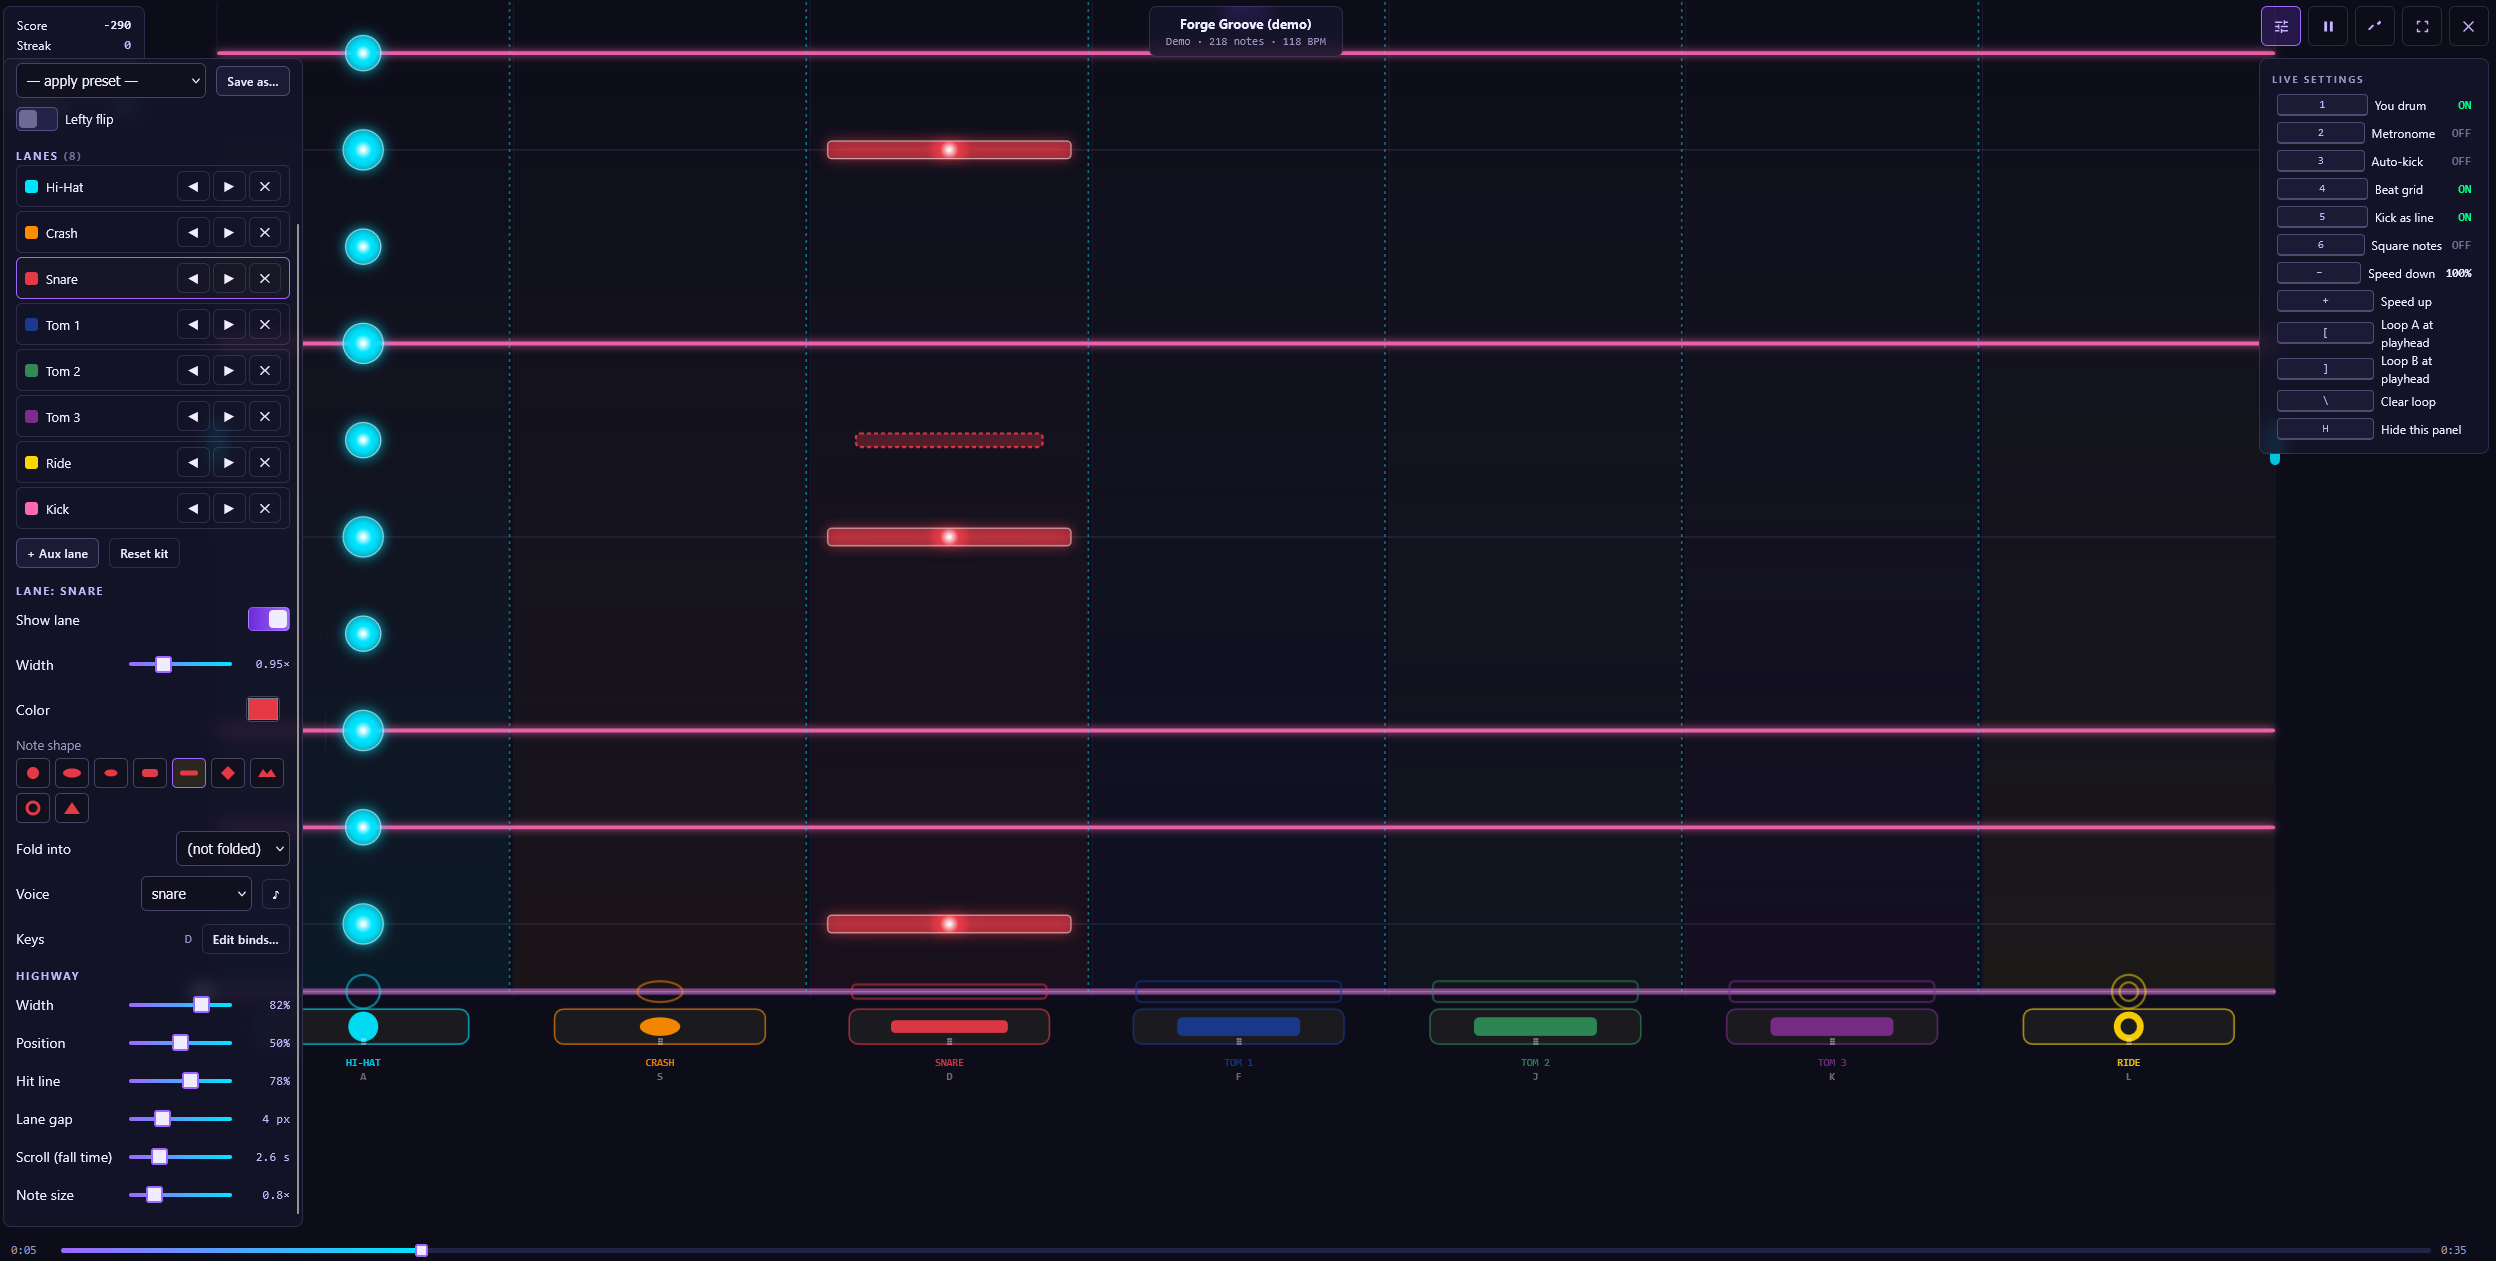
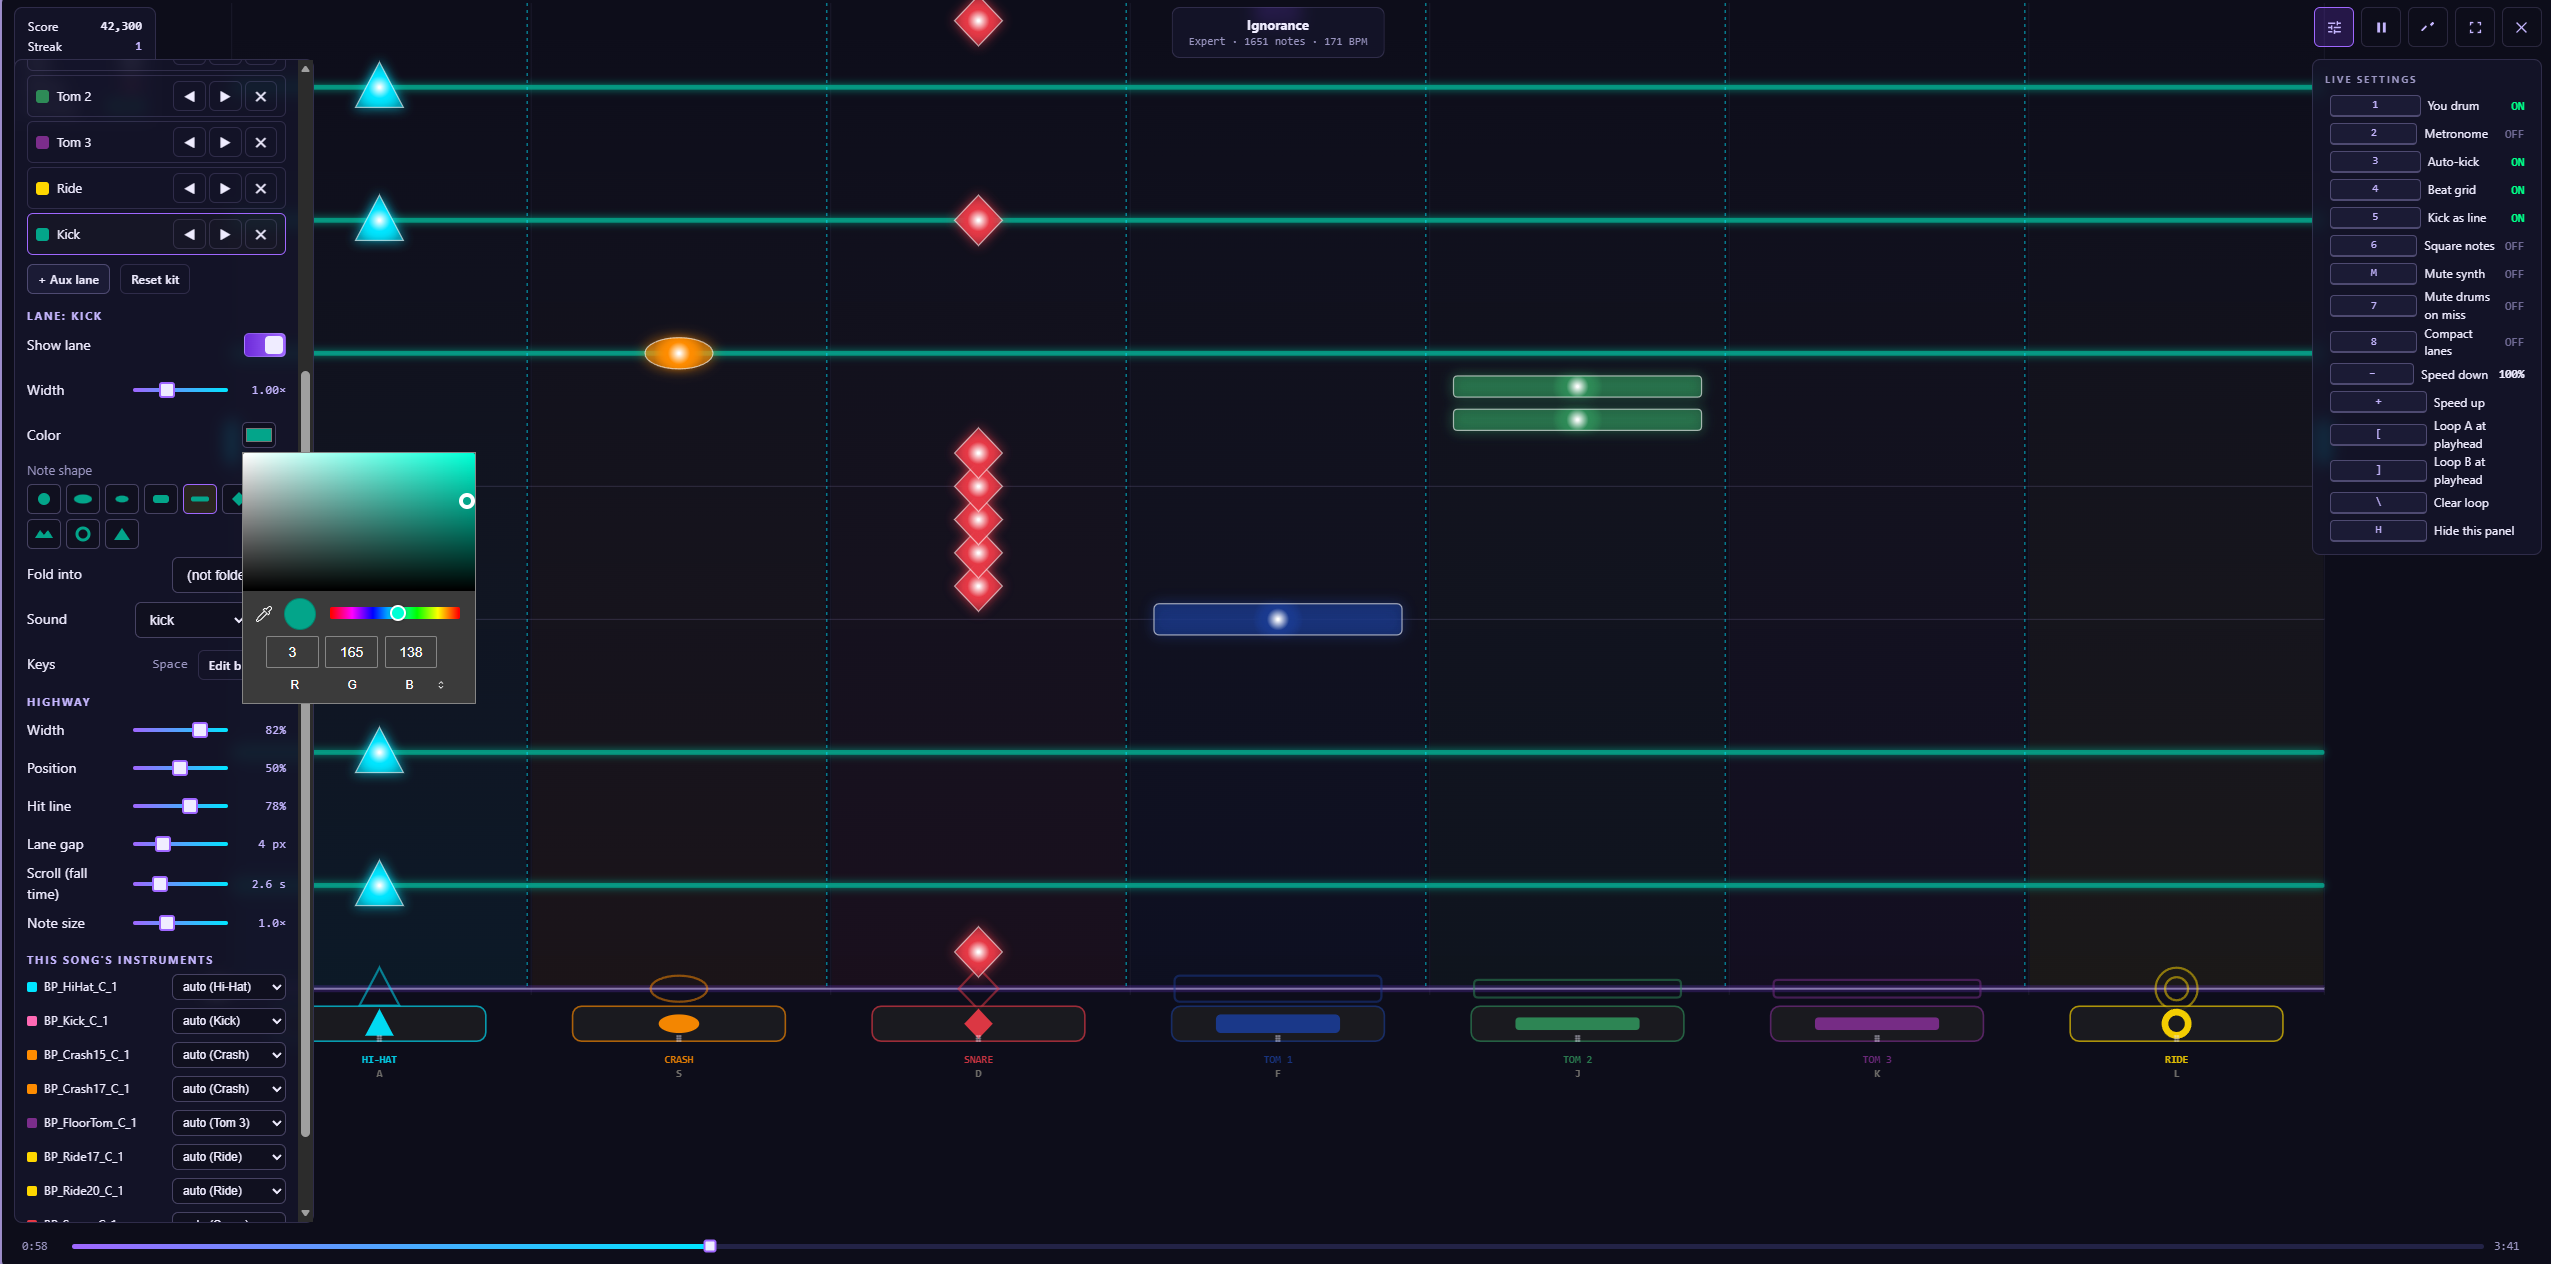
Update Practice Mode v3 gameplay + Kit Studio screenshots (cache-bust)

diff --git a/README.md b/README.md
@@ -379,8 +379,8 @@ A from-scratch rebuild that folds the falling-note **play** experience together 
 
 <p align="center">
   <img src="screenshots/practice-v3-home.png" width="270" alt="Practice v3 — home (Song / Setup / Input)">
-  <img src="screenshots/practice-v3-gameplay.png" width="270" alt="Practice v3 — gameplay">
-  <img src="screenshots/practice-v3-kit-studio.png" width="270" alt="Practice v3 — Kit Studio">
+  <img src="screenshots/practice-v3-gameplay.png?v=2" width="270" alt="Practice v3 — gameplay">
+  <img src="screenshots/practice-v3-kit-studio.png?v=2" width="270" alt="Practice v3 — Kit Studio">
   <img src="screenshots/practice-v3-song-details.png" width="270" alt="Practice v3 — a song expanded in the library, showing note count + audio-stem breakdown, difficulty, speed, and kit">
 </p>
 